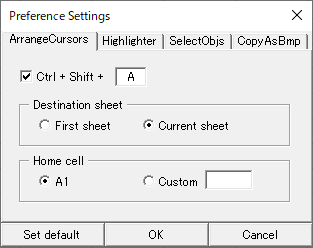
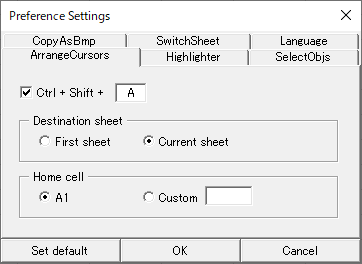
Repost xlr8r
Version up.

diff --git a/content/blog/xlr8r/index.md b/content/blog/xlr8r/index.md
@@ -13,11 +13,12 @@ It provides several functions for documentation in Excel.
 - Select Objects
 - Highlighter
 - Copy as Bitmap
+- Switch sheet
 
 ## Installation
 
 Click
-<a href="https://github.com/vaporwavy/xlr8r/archive/v1.0.2.zip" target="_blank">here</a> to download the latest version.  
+<a href="https://github.com/vaporwavy/xlr8r/archive/v1.1.0.zip" target="_blank">here</a> to download the latest version.  
 Otherwise, go to the <a href="https://github.com/vaporwavy/xlr8r/releases" target="_blank">releases page</a>, download version what you want.  
 Then unzip it, and execute XLR8R_Install.vbs. That's it. Now you can use XLR8R in Excel.
 
@@ -50,11 +51,21 @@ Copy to clipboard as image of selected range or objects.
 
 > Default keybind: <code class="language-text" style="font-style: normal;">Ctrl + Shift + C</code>
 
+### Switch sheet
+
+- Switch to the first sheet.
+
+> Default keybind: <code class="language-text" style="font-style: normal;">Ctrl + Alt + Home</code>
+
+- Switch to the last sheet.
+
+> Default keybind: <code class="language-text" style="font-style: normal;">Ctrl + Alt + End</code>
+
 ## Customization
 
 You can customize on Preference Settings. Press `Ctrl + Shift + P` to open Preference Settings.
 ![Preference Settings](./PS.png)
-You can change keybindings, modes, and settings.
+You can change keybindings, languages, modes, and settings.
 
 ## Contributing
 
